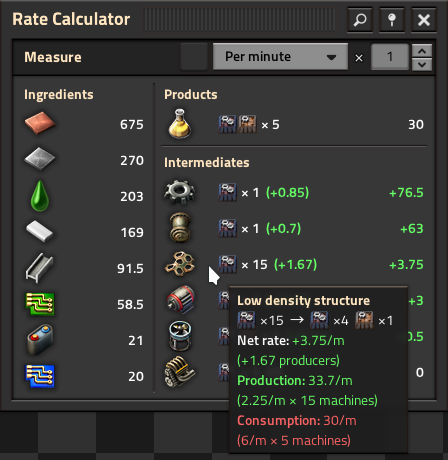
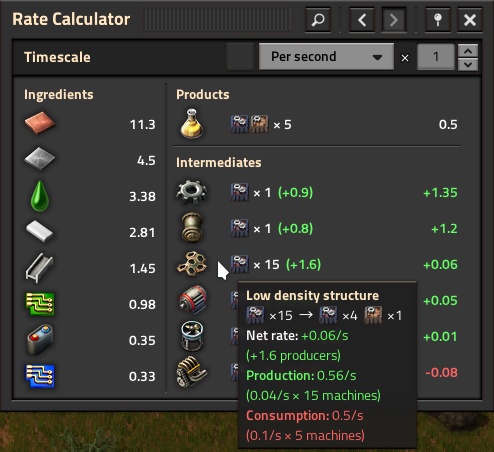
Update readme and screenshots

diff --git a/README.md b/README.md
@@ -25,15 +25,16 @@ The GUI shows rates in several categories:
 - **Intermediates:** Materials that some machines produce and others consume.
 The displayed rate is the "net rate" of that intermediate material.
 
-With a given subfactory, your goal is to make all of the intermediate net rates
-positive (green) or neutral (white). The red/green numbers next to the machine
-counts denote "net producers" i.e. how many fewer or more similarly-configured
-machines you need to build to produce the material at the required rate.
+With a given set, your goal is to make all of the intermediate net rates
+positive (green) or neutral (white). The numbers in parenthesis next to the
+machine counts denote "net producers" i.e. how many fewer or more
+similarly-configured machines you need to build to produce the material at the
+required rate.
 
-The above screenshot shows that this yellow science subfactory needs at least
-2.33 more assemblers producing low density structures to achieve the required
-input rates. It also shows that there is an extra assembler making gears that
-can safely be removed from the subfactory.
+The above screenshot shows that this yellow science set needs at least 1.07
+more assemblers producing engine units to achieve the required input rates. It
+also shows that there is an extra assembler making low density structures that
+can safely be removed from the set.
 
 Use the dropdown to change the timescale for the measurements. Select a
 container or cargo wagon with the entity selector to scale the measurements to
@@ -43,6 +44,9 @@ item transfer rate.
 
 Use the manual multiplier input and/or buttons to scale the entire subfactory's
 rates and machine counts by that multiplier.
+
+You can access the previous ten sets by using the navigation buttons in the
+titlebar.
 
 ## Tips and tricks
 
